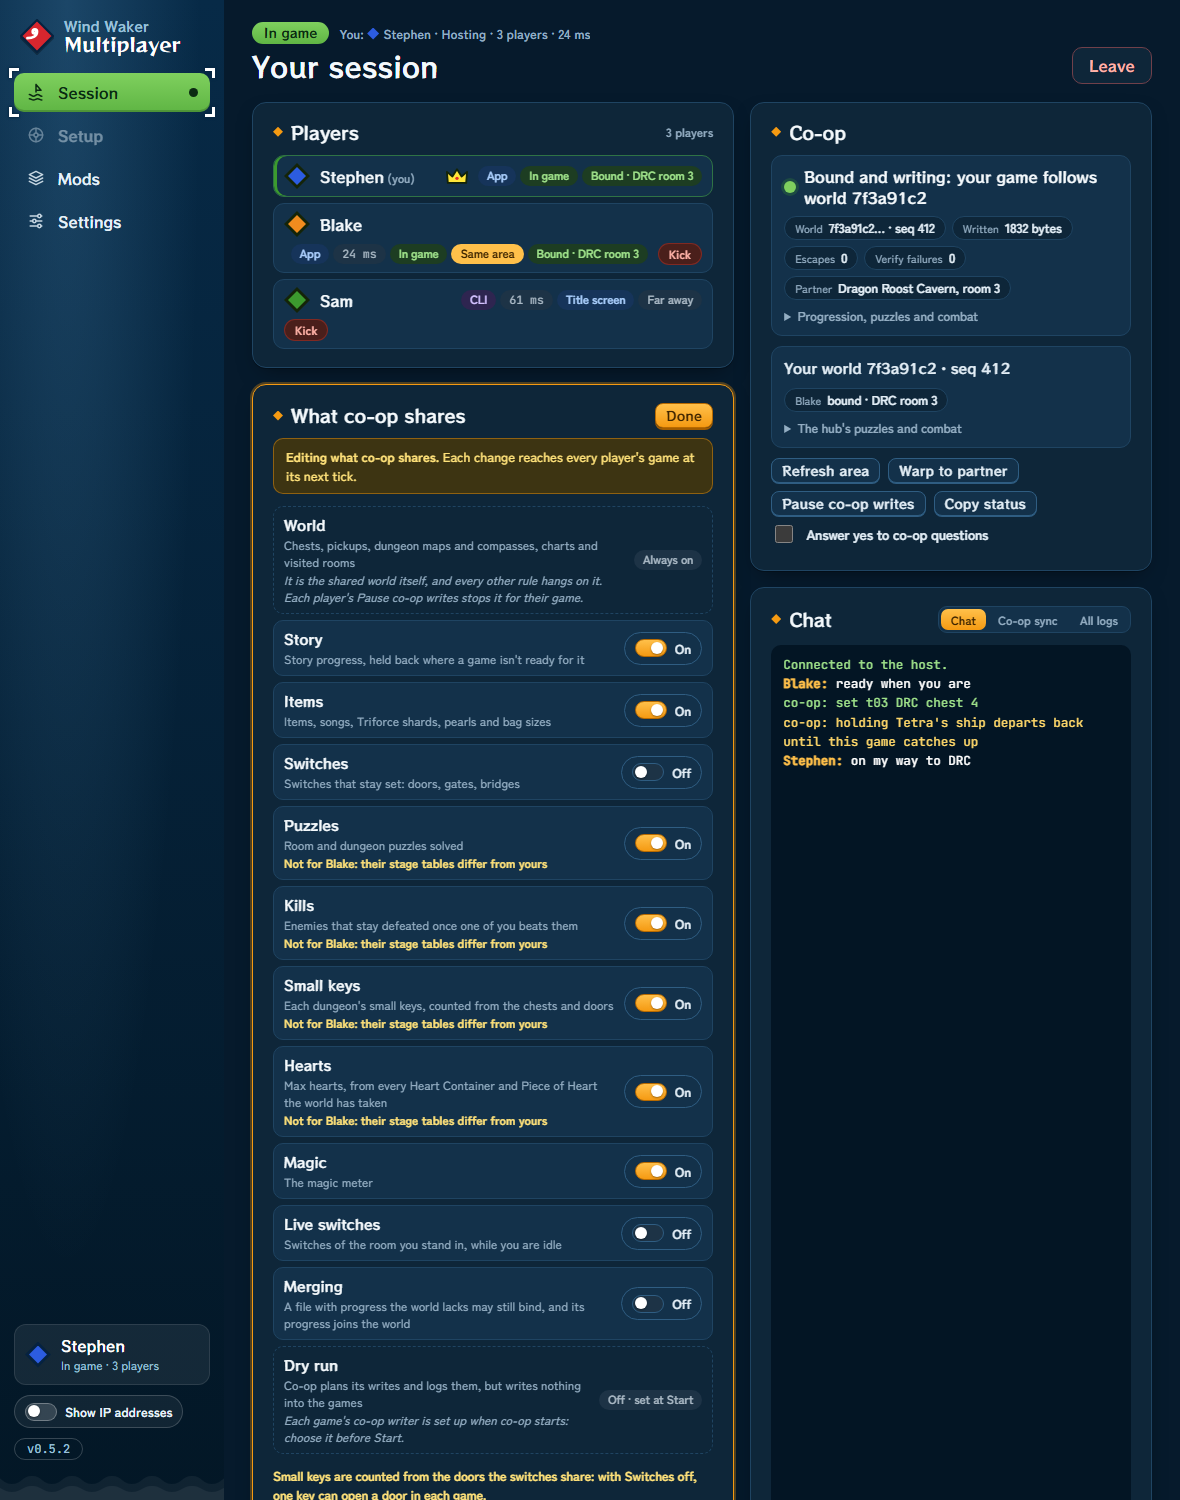
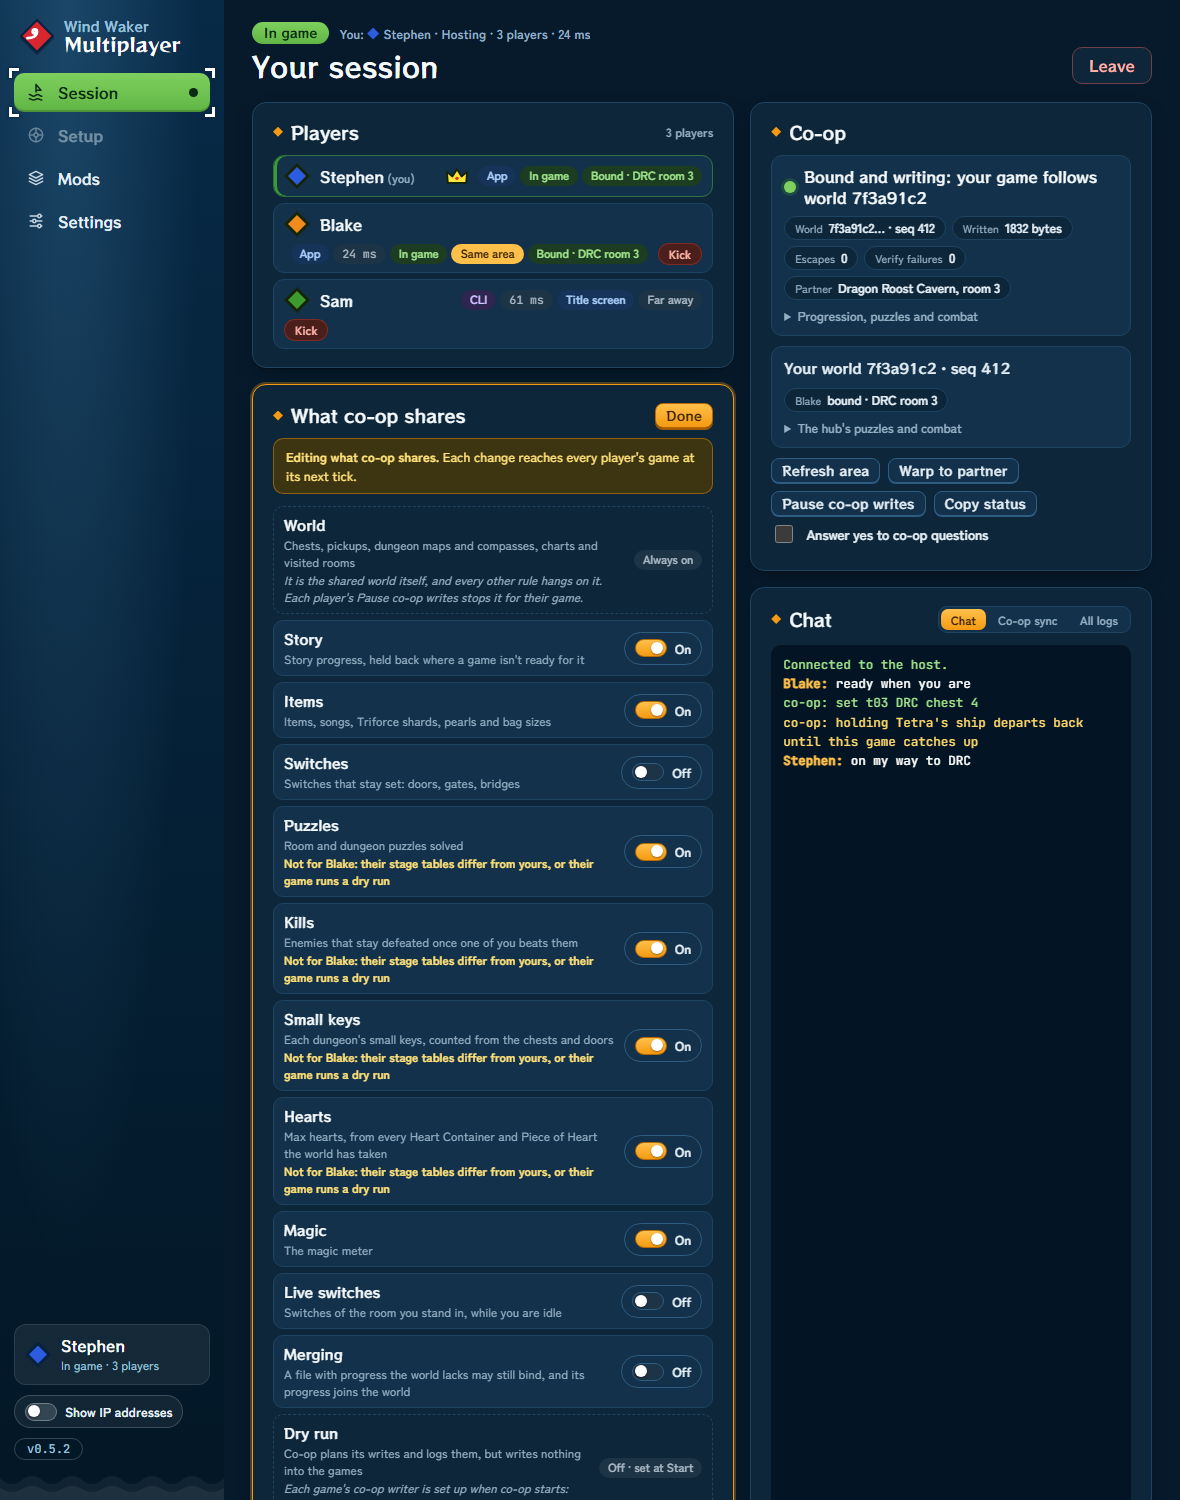
App rules: say why a peer misses a rule (tables or a dry run)
hub grant gives a peer what it asks for, which a dry run keeps to the
World, and the table rules only with the host's tables: the rules card
now names the right cause.

Changed region(s): [[0.2136, 0.5827, 0.6102, 1.0], [0.5186, 0.552, 0.6102, 0.5827]]

diff --git a/internal/gui/frontend/coop.js b/internal/gui/frontend/coop.js
@@ -252,8 +252,9 @@ function renderProgress(st, show) {
 		const rows = rules ? new Map(rules.rows.map((r) => [r.id, r])) : null;
 		const on = rows ? new Set(rules.rows.filter((r) => r.on).map((r) => r.id)) : new Set(v.shares);
 		kids.push(el("ul", { class: "shares" }, ...SHARES.filter(([id]) => id !== "live-switches" || on.has(id)).map(([id, label, what]) => {
-			const miss = rows && rows.get(id) ? rows.get(id).missing || [] : [];
-			const title = what + (on.has(id) ? "" : " (not shared in this session)") + (miss.length ? ". Not for " + miss.join(", ") + ": their stage tables differ from yours" : "");
+			const row = rows ? rows.get(id) : null;
+			const miss = row ? row.missing || [] : [];
+			const title = what + (on.has(id) ? "" : " (not shared in this session)") + (miss.length ? ". Not for " + miss.join(", ") + ": " + row.missingWhy : "");
 			return el("li", { class: (on.has(id) ? "on" : "") + (miss.length ? " part" : ""), title }, el("i"), label);
 		})));
 		if (rules && !rules.host) kids.push(el("p", { class: "dim small" }, "The host chooses what co-op shares, and may change it while you play."));
@@ -306,7 +307,7 @@ function ruleRows(rules) {
 				el("b", {}, r.label),
 				el("small", {}, r.what),
 				r.edit ? null : el("small", { class: "why" }, r.why),
-				r.missing && r.missing.length ? el("small", { class: "why warn" }, "Not for " + r.missing.join(", ") + ": their stage tables differ from yours") : null),
+				r.missing && r.missing.length ? el("small", { class: "why warn" }, "Not for " + r.missing.join(", ") + ": " + r.missingWhy) : null),
 			ctl);
 	}));
 }

diff --git a/tools/uipreview/fake.js b/tools/uipreview/fake.js
@@ -148,6 +148,7 @@
 		const rows = RULES.map(([id, label, what, why]) => ({
 			id, label, what, on: on.has(id), edit: host && !why, why: host ? why || "" : "",
 			missing: host && tablesDiffer && on.has(id) && tableFeats.has(id) ? ["Blake"] : [],
+			missingWhy: "their stage tables differ from yours, or their game runs a dry run",
 		}));
 		return { host, edit: host, rows, note: on.has("keys") && !on.has("switches") ? "Small keys are counted from the doors the switches share: with Switches off, one key can open a door in each game." : "" };
 	}

diff --git a/internal/gui/room_test.go b/internal/gui/room_test.go
@@ -3,6 +3,7 @@ package gui
 import (
 	"errors"
 	"slices"
+	"strings"
 	"testing"
 
 	"github.com/StephenSHorton/ww-multiplayer/internal/config"
@@ -53,8 +54,11 @@ func TestRulesViewHost(t *testing.T) {
 	if r := ruleByID(t, v, "story"); !r.On || !r.Edit || len(r.Missing) != 0 {
 		t.Errorf("Story %+v", r)
 	}
-	if r := ruleByID(t, v, "switches"); !r.On || !r.Edit || !slices.Equal(r.Missing, []string{"Blake"}) {
-		t.Errorf("Switches %+v: want Blake missing (the host and the unbound Sam are not listed)", r)
+	if r := ruleByID(t, v, "switches"); !r.On || !r.Edit || !slices.Equal(r.Missing, []string{"Blake"}) || !strings.Contains(r.MissingWhy, "stage tables") {
+		t.Errorf("Switches %+v: want Blake missing, for his tables (the host and the unbound Sam are not listed)", r)
+	}
+	if r := ruleByID(t, v, "life"); !slices.Equal(r.Missing, []string{"Blake"}) {
+		t.Errorf("Hearts %+v: want Blake missing", r)
 	}
 	if r := ruleByID(t, v, "inventory"); r.On || !r.Edit || len(r.Missing) != 0 {
 		t.Errorf("Items %+v: want off, editable", r)
@@ -64,6 +68,10 @@ func TestRulesViewHost(t *testing.T) {
 	}
 	if r := ruleByID(t, v, "dry-run"); r.On || r.Edit || r.Why == "" {
 		t.Errorf("Dry run %+v: want read-only with why", r)
+	}
+	st.CoopHub.Peers[1].Features = "image"
+	if r := ruleByID(t, rulesView(st, hideIPs), "story"); !slices.Equal(r.Missing, []string{"Blake"}) || r.MissingWhy != "their game runs a dry run" {
+		t.Errorf("Story for a dry-run Blake: %+v", r)
 	}
 	st.CoopHub.Features = "image|keys"
 	if v := rulesView(st, hideIPs); v.Note != sharesNote {

diff --git a/internal/gui/room.go b/internal/gui/room.go
@@ -35,9 +35,12 @@ type CoopRuleView struct {
 	Edit bool   `json:"edit"`
 	Why  string `json:"why,omitempty"`
 	// Missing names the players the hub doesn't grant it although the
-	// host allows it (their stage tables differ from the host's, or
-	// their build asks for less): the host's view only.
-	Missing []string `json:"missing,omitempty"`
+	// host allows it, MissingWhy why (hub grant: a peer gets what it asks
+	// for, which a dry run keeps to the World, and no rule that reads
+	// the stage tables unless its tables are the host's): the host's
+	// view only.
+	Missing    []string `json:"missing,omitempty"`
+	MissingWhy string   `json:"missingWhy,omitempty"`
 }
 
 // CoopRulesView is the rules card.
@@ -124,6 +127,13 @@ func rulesView(st session.State, mk masker) *CoopRulesView {
 				if !nameSet(p.Features)[r.id] {
 					row.Missing = append(row.Missing, mk.text(p.Name))
 				}
+			}
+			switch {
+			case len(row.Missing) == 0:
+			case r.f&proto.TableFeatures != 0:
+				row.MissingWhy = "their stage tables differ from yours, or their game runs a dry run"
+			default:
+				row.MissingWhy = "their game runs a dry run"
 			}
 		}
 		v.Rows = append(v.Rows, row)
